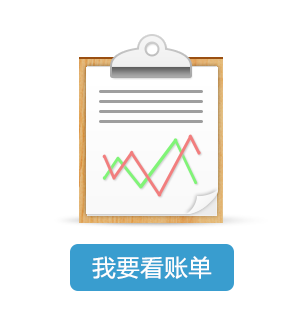
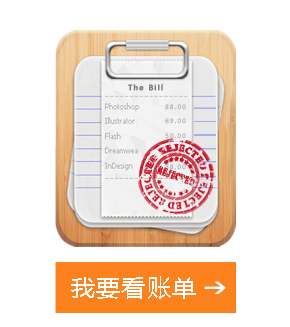
修改首页的小图

diff --git a/demo/index.html b/demo/index.html
@@ -66,13 +66,13 @@
                            <div class="content">
                                 <ul>
                                     <li class="order">
-                                        <a href="#"><img src="../static/img/03.png"></a>
+                                        <a href="#"></a>
                                     </li>
                                     <li class="data">
-                                        <a href="#"><img src="../static/img/04.png"></a>
+                                        <a href="#"></a>
                                     </li>
                                     <li class="account">
-                                        <a href="#"><img src="../static/img/05.png"></a>
+                                        <a href="#"></a>
                                     </li>
                                 </ul>
                            </div>

diff --git a/static/css/pages/index.css b/static/css/pages/index.css
@@ -20,8 +20,17 @@
 .mod-feature-list li a{
     display: block;
     width:266px;
-    height:280px;
+    height:330px;
     overflow: hidden;
+}
+.mod-feature-list li.order a{
+    background: transparent url(../../img/03.png) no-repeat 0px 0px;
+}
+.mod-feature-list li.data a{
+    background:  transparent url(../../img/04.png) no-repeat 0px 0px;
+}
+.mod-feature-list li.account a{
+    background: transparent url(../../img/05.png) no-repeat 0px 0px;
 }
 .mod-feature-list li span{
     display: block;
